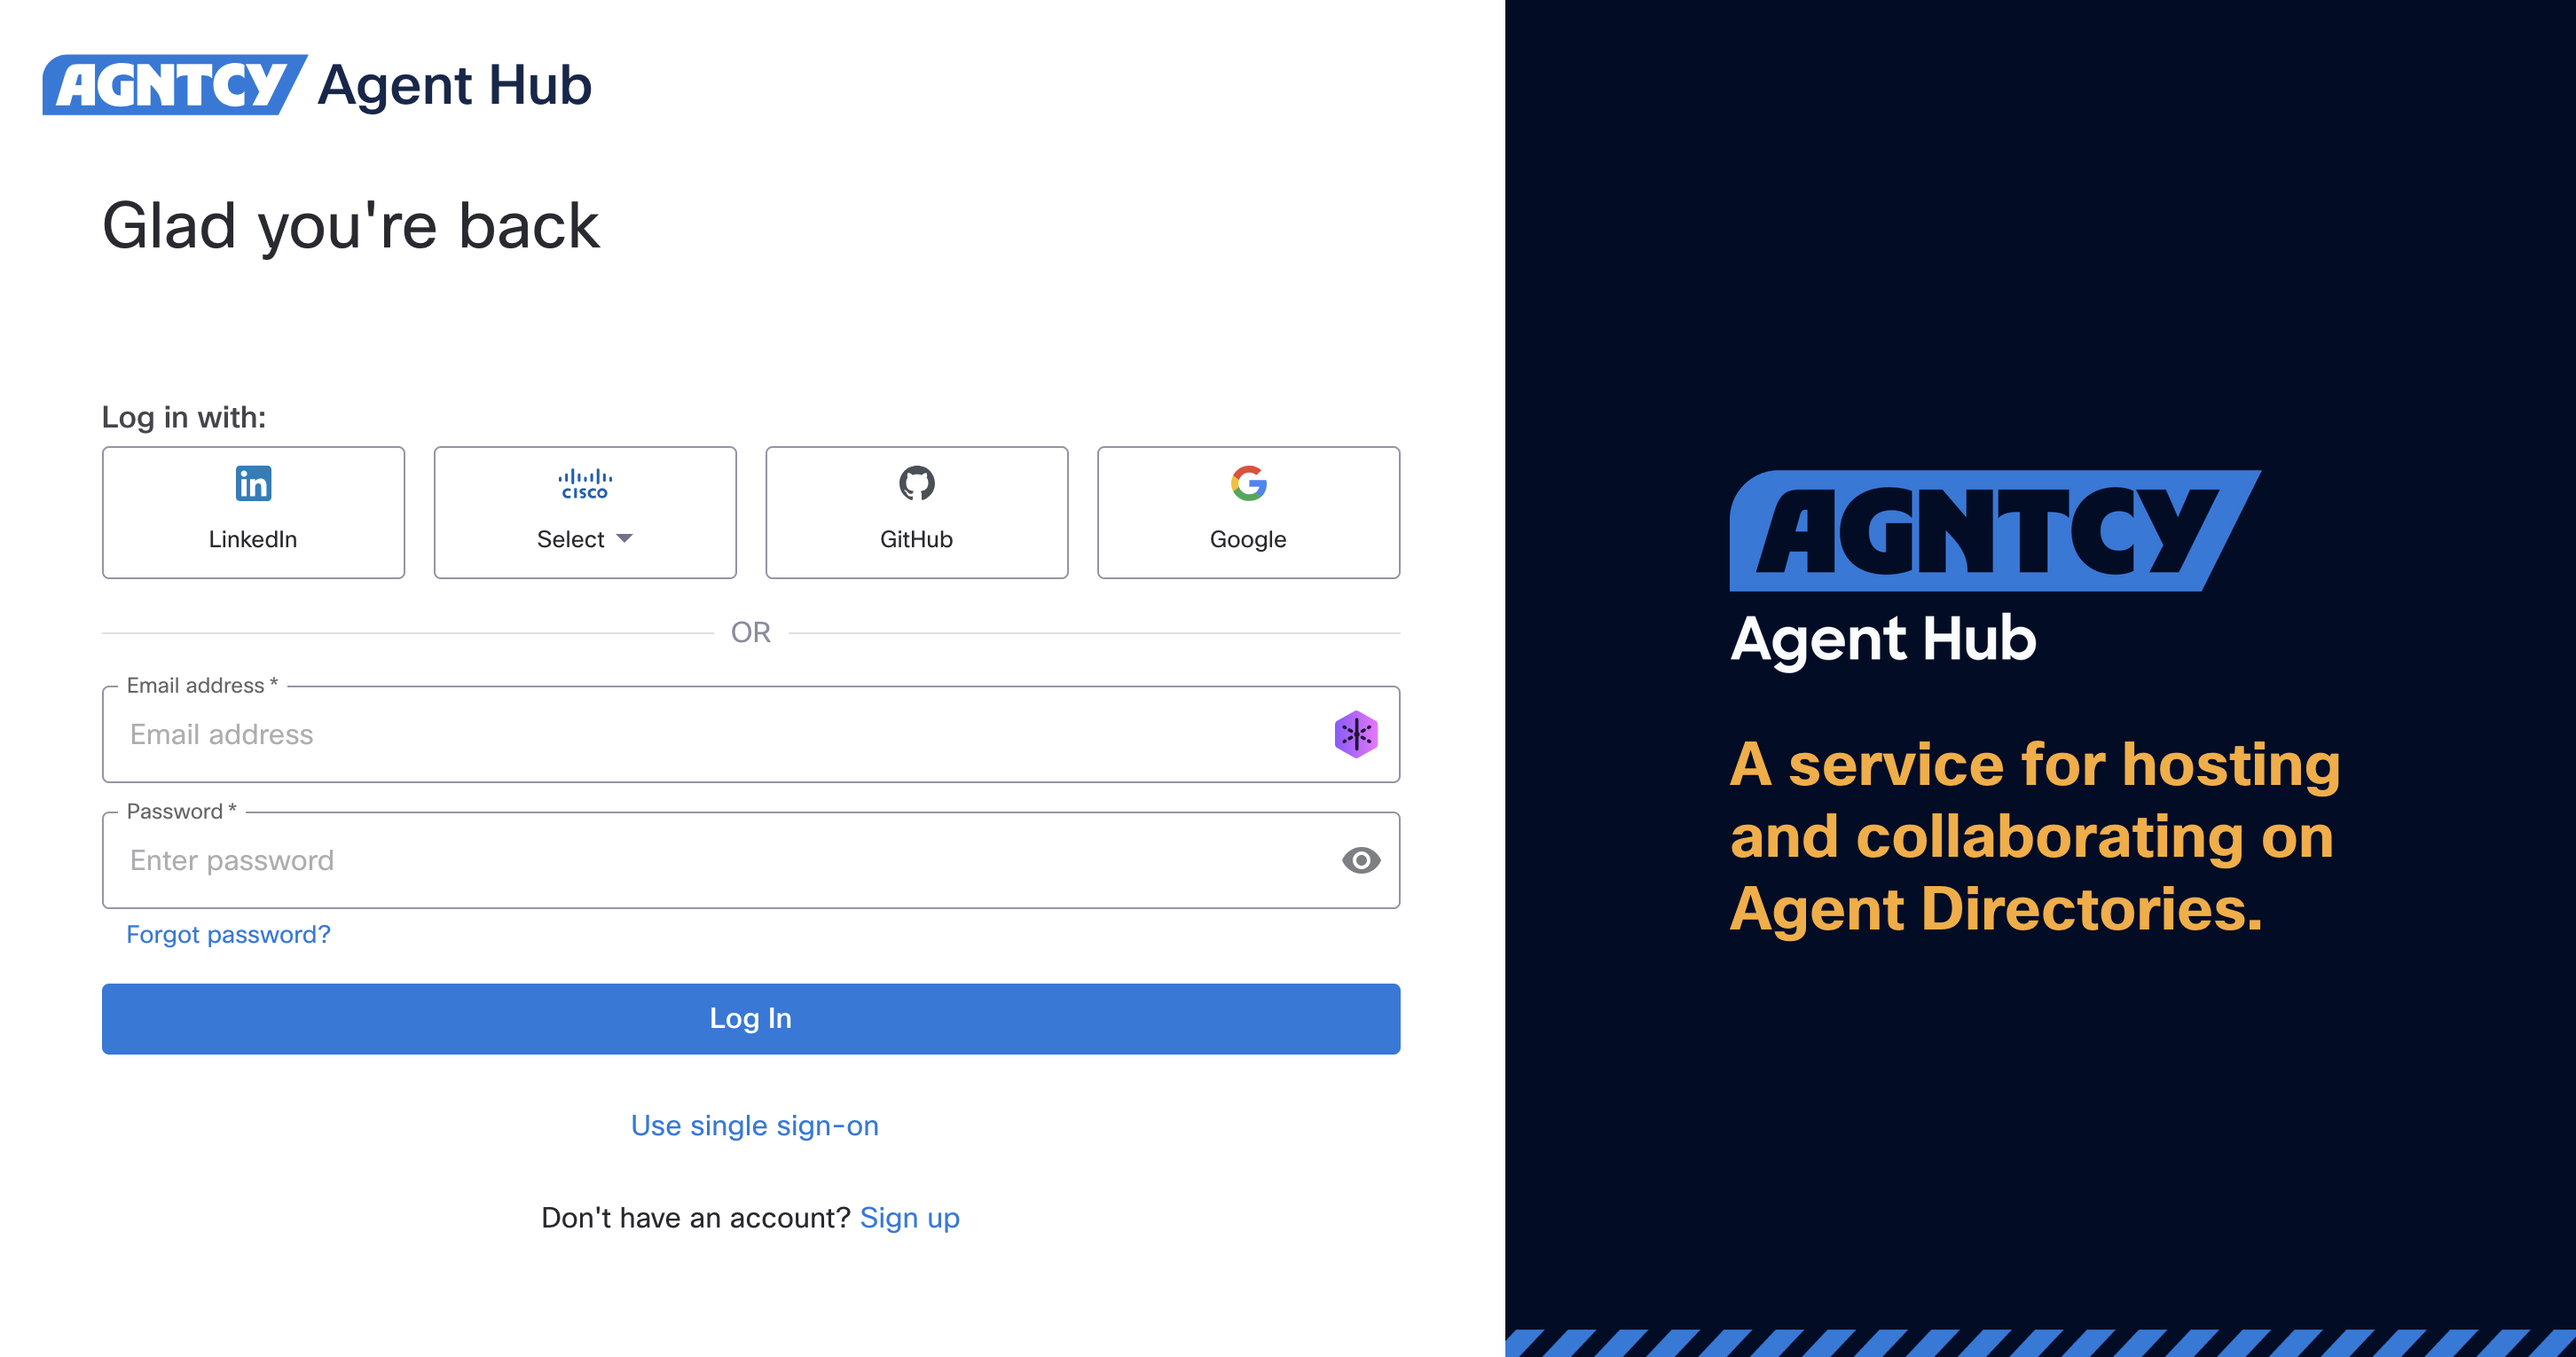
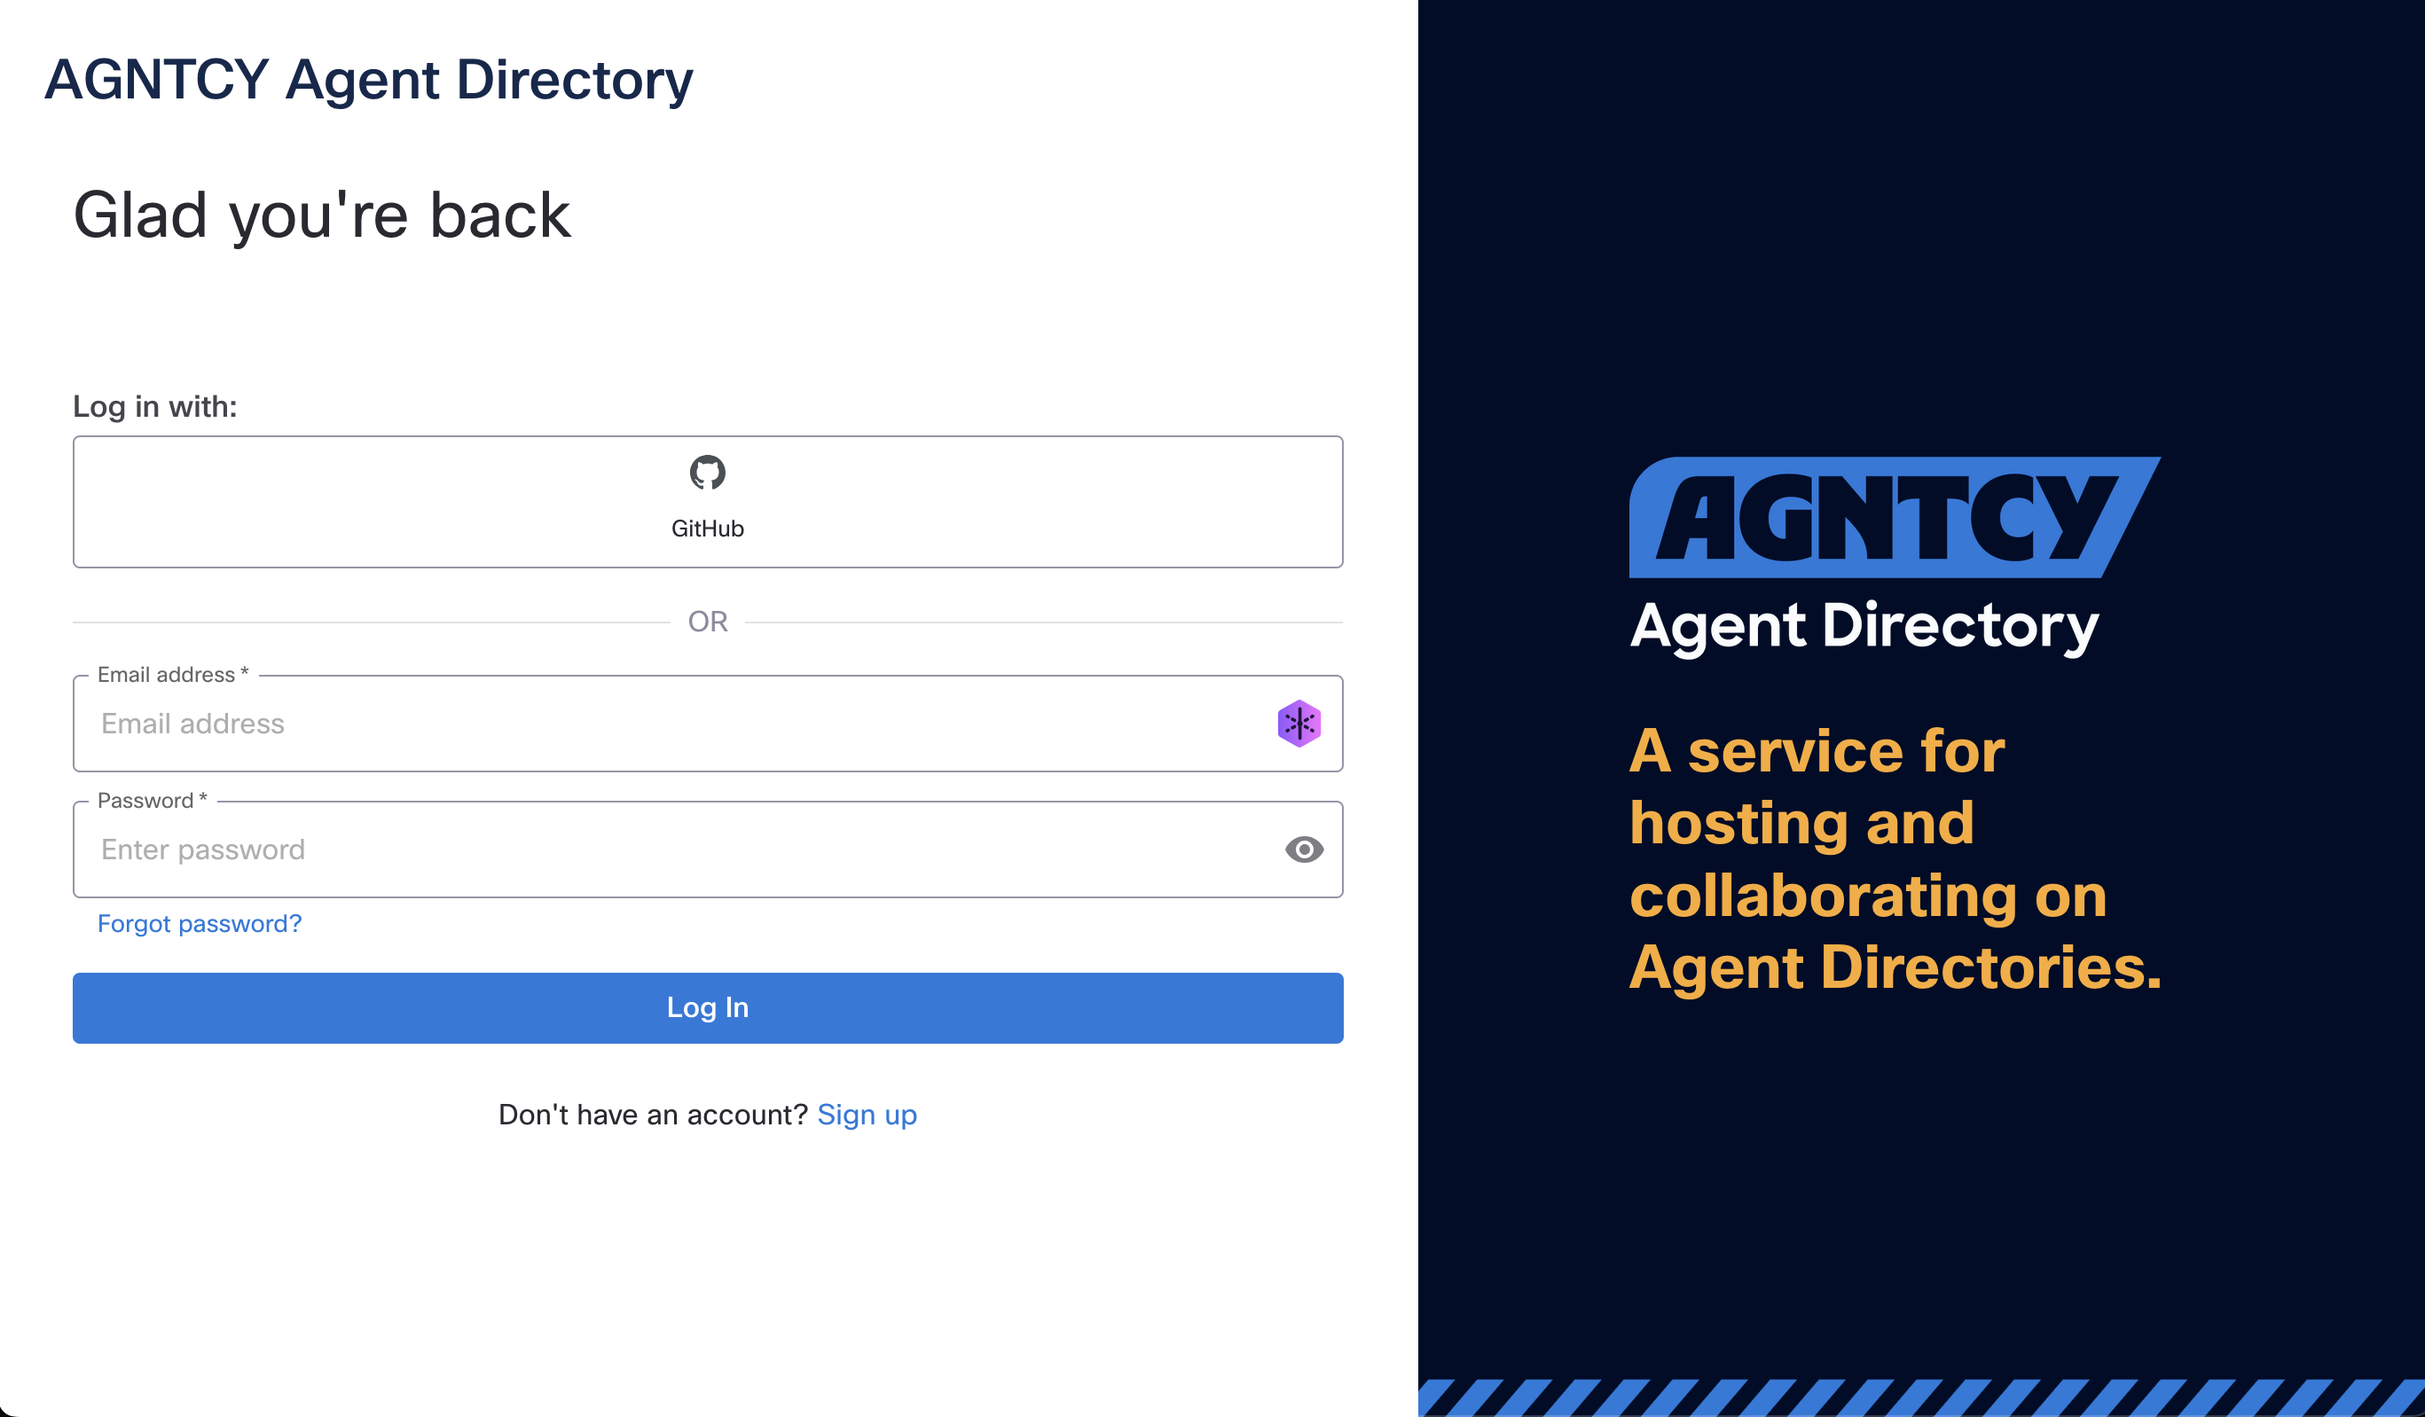
chore: login update

diff --git a/docs/pages/hub/agent_hub.md b/docs/pages/hub/agent_hub.md
@@ -1,6 +1,6 @@
 # Agent Hub
 
-The Agent Hub is designed to provide a robust multi-tenant platform for hosting and managing agent repositories. Its primary aim is to deliver a hub-like user experience, offering easy navigation and management for users. The Agent Hub acts as a centralized point for organizing and accessing agent repositories. This service is enhanced by a gRPC API that supports efficient service communication and integration, ensuring seamless interaction between components.
+The Agent Hub is designed to provide a robust multi-organization platform for hosting and managing agent repositories. Its primary aim is to deliver a hub-like user experience, offering easy navigation and management for users. The Agent Hub acts as a centralized point for organizing and accessing agent repositories. This service is enhanced by a gRPC API that supports efficient service communication and integration, ensuring seamless interaction between components.
 
 The Agent Hub serves as the central platform for hosting and managing various agent-related services. The main purpose is to provide a comprehensive solution for developers and IT admins to register, discover, and manage agents in an organized manner. By offering a secure environment for authentication and user management, it ensures that organizations can confidently manage their agent directories and related services.
 
@@ -11,13 +11,13 @@ The Agent Hub enables users to:
 * View and search for public agent repositories.
 * Create repositories.
 * Publish records.
-* Access multiple separate tenants.
+* Access multiple separate organizations.
 
 ## Using the Agent Hub
 
 ### Signing up for the Agent Hub and Logging in
 
-To get started with the Agent Hub, sign up at the [Agent Hub homepage](https://phoenix.dev.outshift.ai) for free. You can create a dedicated account with your email address or use one of several SSO options. Once your account is created, you simply log in.
+To get started with the Agent Hub, sign up at the [Agent Hub homepage](https://hub.agntcy.org/) for free. You can create an account with your GitHub account. Once your account is created, you simply log in. When first logging in, you are prompted to create a name for your organization.
 
 ![Logging in](./_static/login.png)
 
@@ -33,7 +33,7 @@ You can refine the results using predefined filters and open search:
 * Use the drop-down **Filters** list to narrow the results by Agent Skill.
 * Use the drop-down **Sort by** list to sort the displayed items by Most Recent or Oldest.
 
-You can change tenants by clicking the Tenant drop-down list and selecting another tenant.
+You can change organizations by clicking the Org drop-down list and selecting another organization.
 
 ### Agent Details
 
@@ -85,7 +85,7 @@ To list an agent in the Agent Hub:
 1. Enter the repository name and description.
 1. Select the visibility for your agent repository.
     * Public agent repositories appear in search results.
-    * Private agent repositories are only visible in your tenant.
+    * Private agent repositories are only visible in your organization.
 1. Click **Publish**.
 1. You can also publish the agent repository using the generated CLI command.
 1. Click **Finish**.
@@ -94,25 +94,25 @@ Your agent repository is created in the Agent Hub.
 
 ### Settings
 
-The settings page allows you to manage your tenants and users.
+The settings page allows you to manage your organizations and users.
 
-#### Tenants
+#### Organizations
 
-Tenants represent separate spaces or organizations within the Agent Hub, each with its own repositories and users. The tenants available to you are listed under the **Tenants** tab.
+Organizations represent separate spaces or organizations within the Agent Hub, each with its own repositories and users. The organizations available to you are listed under the **Organizations** tab.
 
-Clicking the three dots (**⁝**) at the end of any record in opens a drop-down list of actions you can perform on that tenant.
+Clicking the three dots (**⁝**) at the end of any record in opens a drop-down list of actions you can perform on that organization.
 
-* Click **Edit** to edit the tenant.
-* Click **Delete** to delete the tenant.
-* Click **Switch** to switch to the tenant.
+* Click **Edit** to edit the organization.
+* Click **Delete** to delete the organization.
+* Click **Switch** to switch to the organization.
 
 You can reload the listed items by clicking the **Reload** button (**⟳**).
 
 #### Users
 
-The users in a tenant are listed under the **Users** tab.
+The users in a organization are listed under the **Users** tab.
 
-Clicking the three dots (**⁝**) at the end of any record in opens a drop-down list of actions you can perform on that tenant.
+Clicking the three dots (**⁝**) at the end of any record in opens a drop-down list of actions you can perform on that organization.
 
 * Click **Edit** to edit the user's role.
 * Click **Delete** to delete the user.
